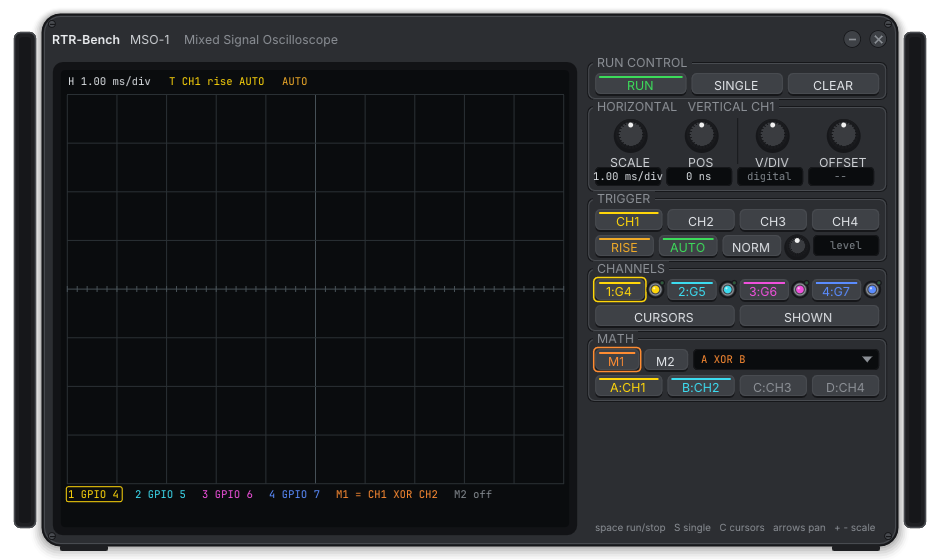
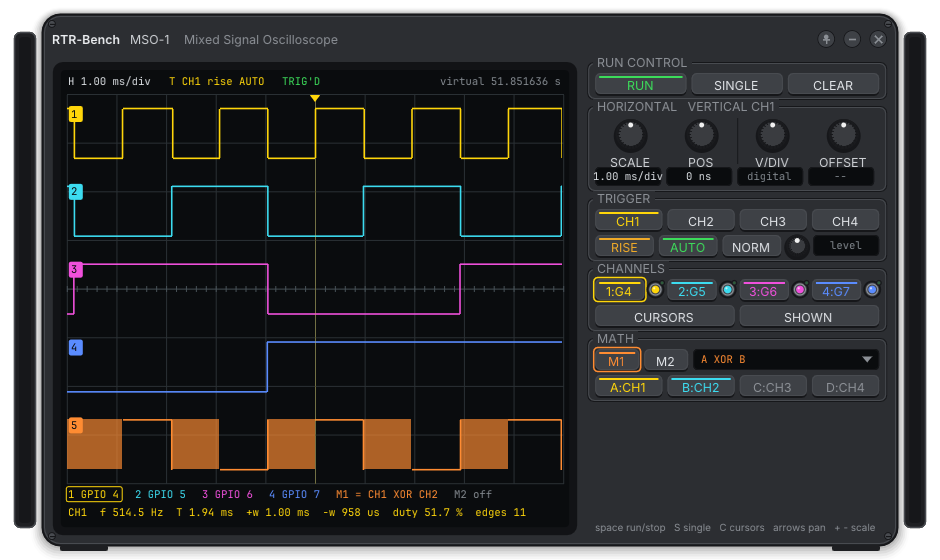
Emulator screenshots retaken: the rack and the oscilloscope on RTR-OS, current rack

diff --git a/README.md b/README.md
@@ -102,8 +102,6 @@ Every screenshot in `docs/screenshots/` is produced by `rtr-bench --screenshot` 
 - **Settings**: theme, probe, the position of every window, the open instruments, the wires and every scope setting (time base, trigger, channels, math) are saved in `.RTR-Bench/bench.json` and `scope.json` next to the executable, every ten seconds and on exit, and restored at the next start. The command line wins over the saved state, and a screenshot run neither reads nor writes it.
 - Windowless tests (Catch2): protocol parser, event queue, port state, trace ring, trigger search, measurements, time base, formulas, themes.
 
-The two emulator scenes above (the rack and the oscilloscope on RTR-OS) were taken before the circuit bench and the audio strip: the rack in them is the earlier one.
-
 Not there yet in the circuit bench: negative supply rails, undo, modules and the part library, digital parts, the ports of the target (GPIO) in the schematic. Not there yet elsewhere: recording and replay, the version 2 emulator probe (input drive on the Pi), the ADALM2000 probe.
 
 ## Repository layout

diff --git a/docs/PLANO.md b/docs/PLANO.md
@@ -172,7 +172,9 @@ para as capturas; os temas continuam no produto). As cenas compostas usam
 `--tile on`: a bancada arruma as janelas em duas colunas, sem sobreposição
 e dentro de um monitor (uma janela que cai fora da tela passa para outro
 monitor e é desenhada na escala dele). As duas cenas do emulador
-(`rack-dark.png`, `scope-dark.png`) ainda são as antigas.
+(`rack-dark.png`, `scope-dark.png`) foram refeitas com o RTR-OS rodando o
+contador (`scripts/run-web.sh 8080 scope` no WSL, depois `rtr-bench --probe
+emulator --tile on --screenshot ...`).
 
 **Próximas levas, pela ordem**: (2) editor — seleção múltipla com retângulo,
 copiar/colar, mover fio, fios que acompanham em ângulo reto, rótulos de nó
